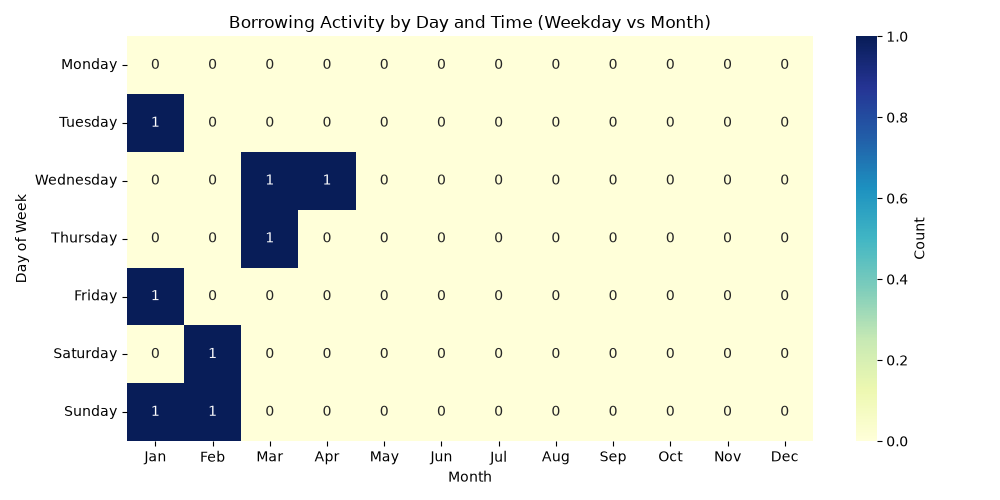
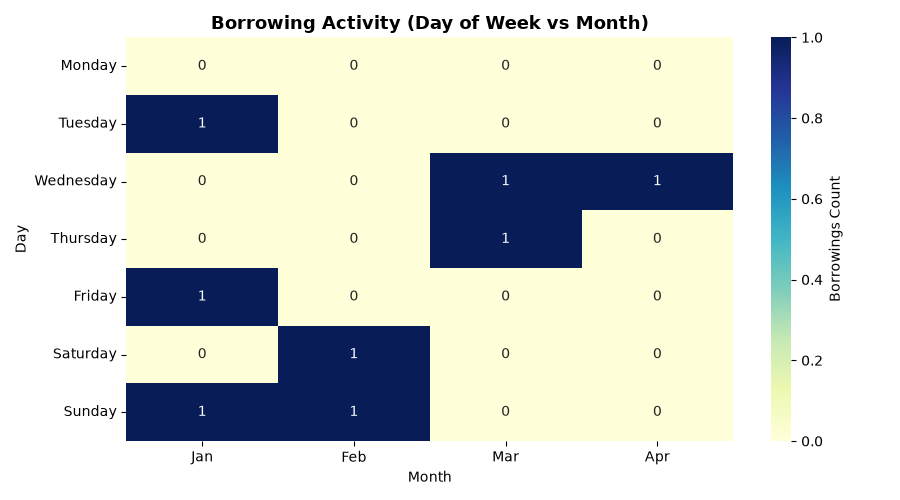
Practical Project

diff --git a/PYTHON PROJECTS/Prcatical Projects/library_dashboard.py b/PYTHON PROJECTS/Prcatical Projects/library_dashboard.py
@@ -3,13 +3,10 @@ E-Library Data Insights Dashboard
 Integrates Control Structures, OOP, NumPy, Pandas, Matplotlib, and Seaborn.
 """
 
-import os
 import numpy as np
 import pandas as pd
 import matplotlib.pyplot as plt
 import seaborn as sns
-
-SCRIPT_DIR = os.path.dirname(os.path.abspath(__file__))
 
 
 class LibraryDashboard:
@@ -24,18 +21,18 @@ class LibraryDashboard:
         if file_path:
             self.file_path = file_path
 
-        # If file is not found in current working directory, look in script's directory
-        if not os.path.exists(self.file_path):
-            fallback = os.path.join(SCRIPT_DIR, self.file_path)
-            if os.path.exists(fallback):
-                self.file_path = fallback
-
         try:
             raw_data = pd.read_csv(self.file_path)
             print(f"Successfully loaded '{self.file_path}'.")
-        except Exception as e:
-            print(f"Error loading CSV file: {e}")
-            return False
+        except Exception:
+            try:
+                alt_path = "PYTHON PROJECTS/Prcatical Projects/" + self.file_path
+                raw_data = pd.read_csv(alt_path)
+                self.file_path = alt_path
+                print(f"Successfully loaded '{self.file_path}'.")
+            except Exception as e:
+                print(f"Error loading CSV file: {e}")
+                return False
 
         # 1. Check required columns
         required_cols = [
@@ -173,8 +170,7 @@ class LibraryDashboard:
         if not stats:
             return
 
-        out_path = os.path.join(SCRIPT_DIR, output_file) if not os.path.isabs(output_file) else output_file
-        with open(out_path, "w", encoding="utf-8") as file:
+        with open(output_file, "w", encoding="utf-8") as file:
             file.write("=" * 50 + "\n        E-LIBRARY DATA INSIGHTS REPORT\n" + "=" * 50 + "\n\n")
             for key, value in stats.items():
                 file.write(f"{key}:\n")
@@ -185,7 +181,7 @@ class LibraryDashboard:
                 else:
                     file.write(f"{value}\n\n")
 
-        print(f"Report successfully saved to '{out_path}'.")
+        print(f"Report successfully saved to '{output_file}'.")
 
     def visualize(self):
         """Generates and saves 4 visualizations: Bar, Line, Pie, and Heatmap."""
@@ -201,7 +197,7 @@ class LibraryDashboard:
         plt.title("Top 5 Most Borrowed Books", fontsize=13, fontweight="bold")
         plt.xlabel("Borrowings Count")
         plt.tight_layout()
-        plt.savefig(os.path.join(SCRIPT_DIR, "top_5_books.png"))
+        plt.savefig("top_5_books.png")
         plt.show()
 
         # 2. Line Graph: Borrowing Trends Over Months
@@ -214,7 +210,7 @@ class LibraryDashboard:
         plt.grid(True, linestyle="--", alpha=0.5)
         plt.legend()
         plt.tight_layout()
-        plt.savefig(os.path.join(SCRIPT_DIR, "monthly_borrowing_trend.png"))
+        plt.savefig("monthly_borrowing_trend.png")
         plt.show()
 
         # 3. Pie Chart: Distribution by Genre
@@ -224,7 +220,7 @@ class LibraryDashboard:
         plt.title("Distribution of Books by Genre", fontsize=13, fontweight="bold")
         plt.legend(title="Genres", loc="upper right")
         plt.tight_layout()
-        plt.savefig(os.path.join(SCRIPT_DIR, "genre_distribution.png"))
+        plt.savefig("genre_distribution.png")
         plt.show()
 
         # 4. Heatmap: Activity by Weekday and Month
@@ -243,7 +239,7 @@ class LibraryDashboard:
         sns.heatmap(pivot, annot=True, fmt="d", cmap="YlGnBu", cbar_kws={"label": "Borrowings Count"})
         plt.title("Borrowing Activity (Day of Week vs Month)", fontsize=13, fontweight="bold")
         plt.tight_layout()
-        plt.savefig(os.path.join(SCRIPT_DIR, "borrowing_activity_heatmap.png"))
+        plt.savefig("borrowing_activity_heatmap.png")
         plt.show()
 
 
